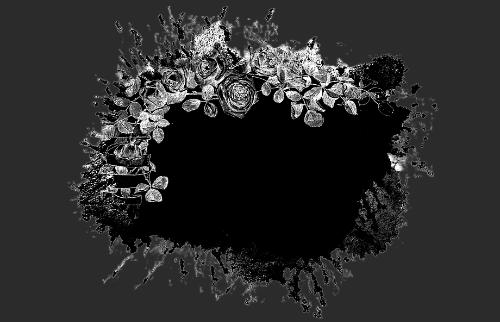
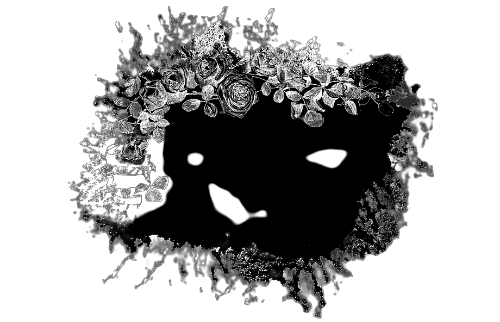
changes Done

diff --git a/CSS/16-06-2023/Heroimage.html b/CSS/16-06-2023/Heroimage.html
@@ -1,0 +1,66 @@
+<!DOCTYPE html>
+<html lang="en">
+<head>
+    <meta charset="UTF-8">
+    <meta name="viewport" content="width=device-width, initial-scale=1.0">
+    <title>Document</title>
+    <link rel="stylesheet" href="https://cdnjs.cloudflare.com/ajax/libs/font-awesome/6.4.0/css/all.min.css">
+    <style>
+        *{
+            margin: 0;
+            padding: 0;
+            font-family: system-ui, -apple-system, BlinkMacSystemFont, 'Segoe UI', Roboto, Oxygen, Ubuntu, Cantarell, 'Open Sans', 'Helvetica Neue', sans-serif;
+        }
+        img{
+            width: 100%;
+            height: 100%;
+            filter: brightness(50%);
+        }
+        .HeroImage{
+            position: relative;
+        }
+        .HeroContent{
+            width: 100%;
+            /* background-color: purple; */
+            text-align: center;
+            position: absolute;
+            top: 0;
+            padding: 150px 0;
+        }
+        h1{
+            font-size: 60px;
+            color: white;
+            text-shadow: 0px 0px 10px black;
+        }
+        p{
+            font-size: 30px;
+            padding: 30px 0px 120px 0px;
+            color: white;
+            text-shadow: 0px 0px 50px black;
+        }
+        button{
+            height: 40px;
+            width: 150px;
+            background: #ffffff47;
+            color: white;
+            font-size: 16px;
+            border: 2px solid white;
+            border-radius: 15px;
+        }
+        button:hover{
+            border: transparent;
+            background-color: black;
+        }
+    </style>
+</head>
+<body>
+    <div class="HeroImage">
+        <img src="images/wallpaper2.png" alt="">
+        <div class="HeroContent">
+            <h1>Discover The World</h1>
+            <p>We offer the best adventure holidays and tailor-made trips!!</p>
+            <button>Search for Tours <i class="fa-solid fa-circle-chevron-right fa-beat"></i></button>
+        </div>
+    </div>
+</body>
+</html>

diff --git a/CSS/16-06-2023/Z_index.html b/CSS/16-06-2023/Z_index.html
@@ -1,0 +1,51 @@
+<!DOCTYPE html>
+<html lang="en">
+<head>
+    <meta charset="UTF-8">
+    <meta name="viewport" content="width=device-width, initial-scale=1.0">
+    <title>Document</title>
+    <style>
+        img{
+            height: 300px;
+            width: 300px;
+        }
+        /* parent class */
+        .main{
+            position: relative;
+        }
+        /* child class */
+        .img1{
+            position: absolute;
+            top: 0;
+            left: 0;
+            z-index: 1;
+        }
+        .img2{
+            position: absolute;
+            top: 70px;
+            left: 70px;
+            z-index: 3;
+        }
+        .img3{
+            position: absolute;
+            top: 180px;
+            left: 180px;
+            z-index: 2;
+        }
+    </style>
+</head>
+<body>
+    <!-- position relative like a parent -->
+    <!-- position relative like a child -->
+    <div class="main"></div>
+         <div class="img1">
+              <img src="images/wallpaper.jpg" alt="">
+         </div>
+         <div class="img2">
+             <img src="images/wallpaper1.jpg" alt="">
+         </div>
+         <div class="img3">
+             <img src="images/wallpaper2.png" alt="">
+         </div>
+</body>
+</html>

diff --git a/CSS/16-06-2023/positionRelative_Absolute.html b/CSS/16-06-2023/positionRelative_Absolute.html
@@ -1,0 +1,48 @@
+<!DOCTYPE html>
+<html lang="en">
+<head>
+    <meta charset="UTF-8">
+    <meta name="viewport" content="width=device-width, initial-scale=1.0">
+    <title>Document</title>
+    <style>
+        img{
+            height: 300px;
+            width: 300px;
+        }
+        /* parent class */
+        .main{
+            position: relative;
+        }
+        /* child class */
+        .img1{
+            position: absolute;
+            top: 0;
+            left: 0;
+        }
+        .img2{
+            position: absolute;
+            top: 70px;
+            left: 70px;
+        }
+        .img3{
+            position: absolute;
+            top: 180px;
+            left: 180px;
+        }
+    </style>
+</head>
+<body>
+    <!-- position relative like a parent -->
+    <!-- position relative like a child -->
+    <div class="main"></div>
+         <div class="img1">
+              <img src="images/wallpaper.jpg" alt="">
+         </div>
+         <div class="img2">
+             <img src="images/wallpaper1.jpg" alt="">
+         </div>
+         <div class="img3">
+             <img src="images/wallpaper2.png" alt="">
+         </div>
+</body>
+</html>

diff --git a/CSS/16-06-2023/position_sticky.html b/CSS/16-06-2023/position_sticky.html
@@ -1,0 +1,36 @@
+<!DOCTYPE html>
+<html lang="en">
+<head>
+    <meta charset="UTF-8">
+    <meta name="viewport" content="width=device-width, initial-scale=1.0">
+    <title>Document</title>
+    <style>
+        .top-header {
+            height: 50px;
+            width: 100%;
+            background-color: pink;
+        }
+        .header {
+            height: 70px;
+            width: 100%;
+            background-color: purple;
+            position: sticky;
+            top: 10px;
+        }
+        img {
+            width: 100%;
+        }
+    </style>
+</head>
+<body>
+    <div class="top-header">
+        top header
+    </div>
+    <div class="header">
+        header
+    </div>
+    <div class="image">
+        <img src="images/wallpaper.jpg" alt="">
+    </div>
+</body>
+</html>

diff --git a/CSS/16-06-2023/position_fixed.html b/CSS/16-06-2023/position_fixed.html
@@ -1,0 +1,29 @@
+<!DOCTYPE html>
+<html lang="en">
+<head>
+    <meta charset="UTF-8">
+    <meta name="viewport" content="width=device-width, initial-scale=1.0">
+    <title>Document</title>
+    <style>
+        .header{
+            height: 70px;
+            width: 100%;
+            background-color: purple;
+            position: fixed;
+            /* bottom: 0; */
+            /* left: 0; */
+            /* right: 0; */
+            top: 0;
+        }
+        .img{
+            width: 100%;
+        }
+    </style>
+</head>
+<body>
+    <div class="header"></div>
+    <div class="image">
+        <img src="images/wallpaper.jpg" alt="">
+    </div>
+</body>
+</html>

diff --git a/CSS/15-06-2023/Masking.html b/CSS/15-06-2023/Masking.html
@@ -10,7 +10,7 @@
             width: 500px;
 
             /* always run on live server */
-            mask-image: url(images/img2.png);
+            mask-image: url(images/img3.png);
             -webkit-mask-image: url(images/img3.png);
             ;
             mask-repeat: no-repeat;
